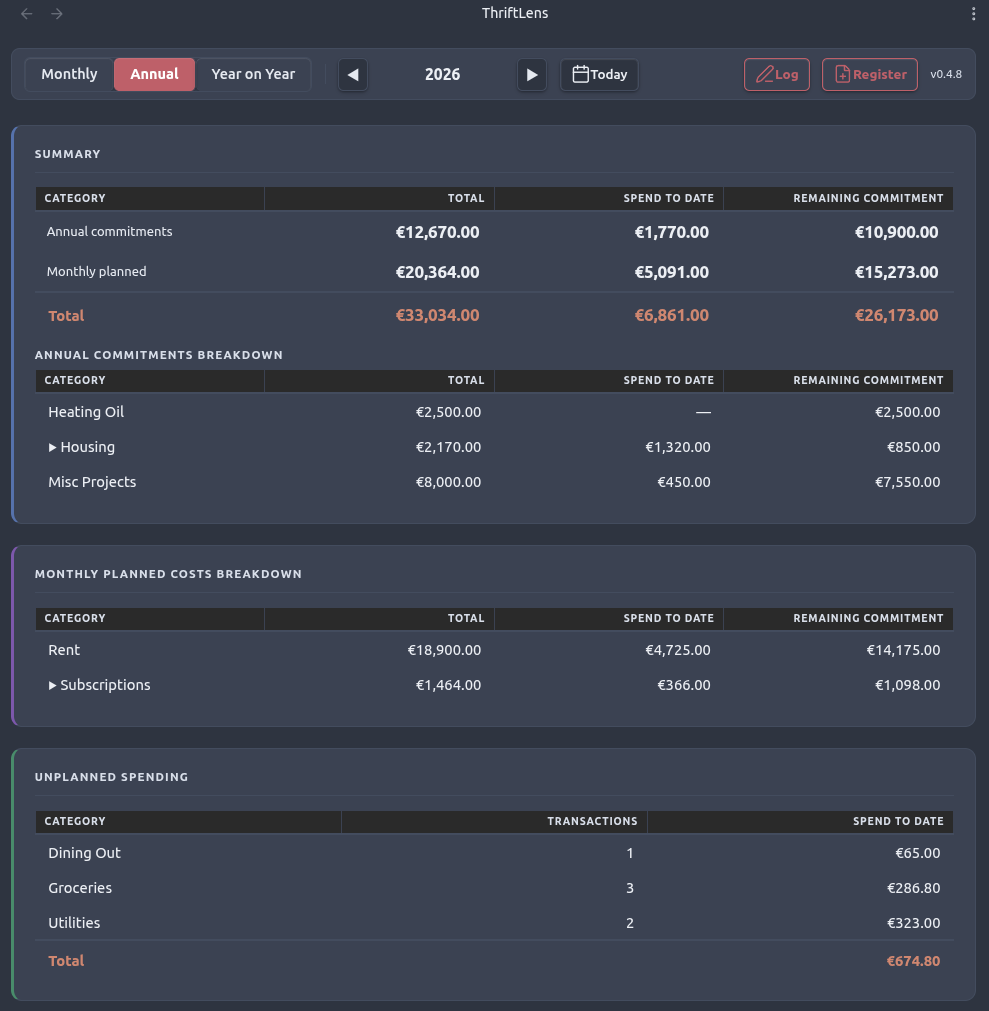
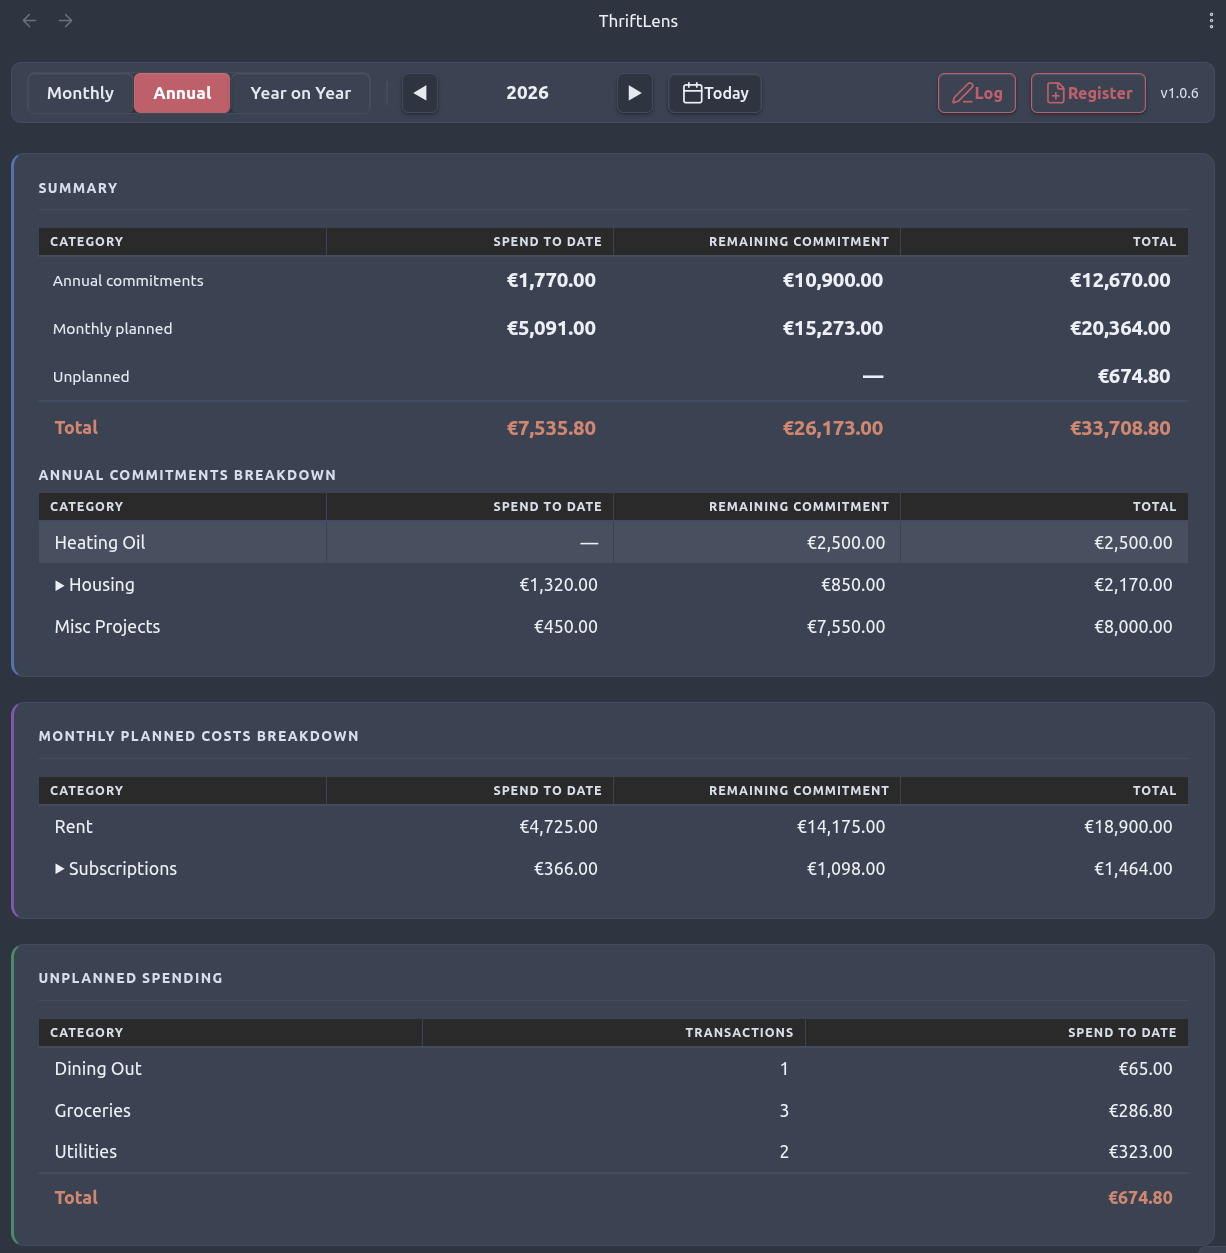
Update README and screenshots for 1.0.6
- Document unplanned spending section in annual view description
- Update export report command to reference the new month setting
- Add Export report month to settings table
- Refresh screenshots to reflect column reorder and UI improvements

diff --git a/README.md b/README.md
@@ -36,7 +36,7 @@ Every entry in ThriftLens is one of four things:
 
 ![Monthly view](docs/thriftlens_month.png)
 
-**Annual view** shows the full year: the total committed baseline versus total actual spend, broken down by category. Annual commitments are matched against actuals by `spend_category`. Monthly planned spend-to-date is computed as amount × months elapsed – no transaction matching needed. This is where you see whether your commitments are holding and how the year is tracking overall.
+**Annual view** shows the full year: the total committed baseline versus total actual spend, broken down by category. Annual commitments are matched against actuals by `spend_category`. Monthly planned spend-to-date is computed as amount × months elapsed – no transaction matching needed. Unplanned spend – actual transactions with no matching plan entry – appears in its own section and is included in the grand total. This is where you see whether your commitments are holding and how the year is tracking overall.
 
 ![Annual view](docs/thriftlens_annual.png)
 
@@ -188,7 +188,7 @@ The year label in the monthly and annual nav bars, and each year heading in the 
 
 **Export to CSV** – exports all entries from a register to a CSV file in the data folder.
 
-**Export report** – generates a self-contained HTML report for the current month and year, written to `thriftLens/exports/`.
+**Export report** – generates a self-contained HTML report written to `thriftLens/exports/`. The month reported is controlled by the Export report month setting.
 
 ### Settings
 
@@ -196,7 +196,8 @@ The year label in the monthly and annual nav bars, and each year heading in the 
 |---|---|---|
 | Currency symbol | `€` | Displayed in the dashboard; not stored in data files |
 | Data folder | `thriftLens` | Folder within the vault containing register files |
-| Default view | `monthly` | Which tab opens when the dashboard is first shown |
+| Default view | `Monthly` | Which tab opens when the dashboard is first shown |
+| Export report month | `Previous month (complete)` | Whether the exported report covers the previous complete month or the current partial month |
 
 ---
 
